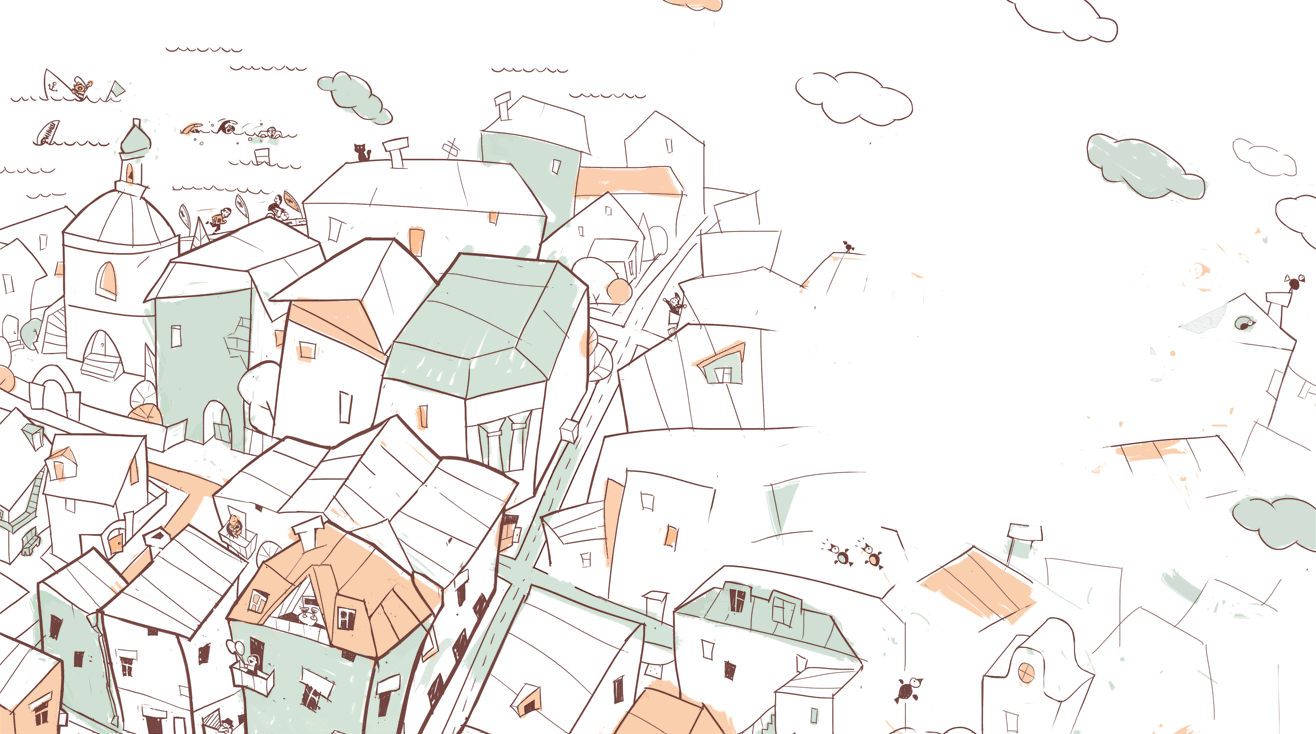
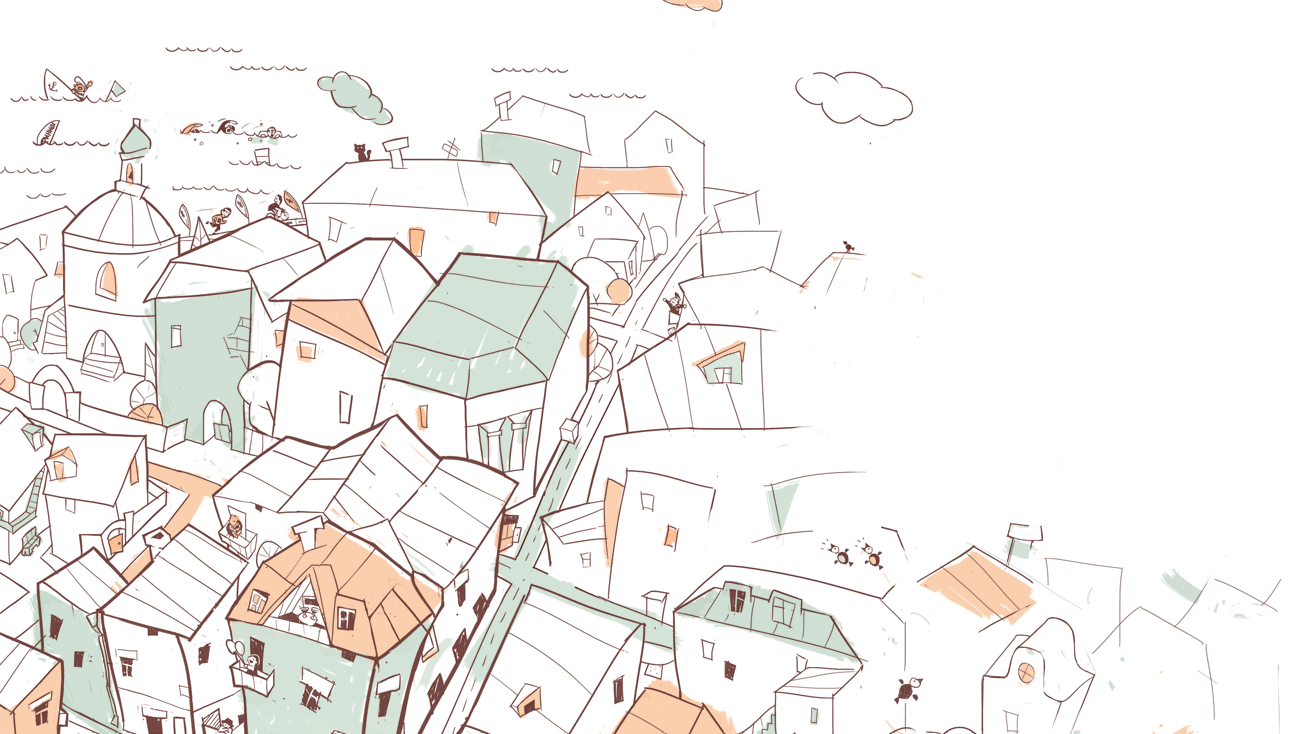
Ready

diff --git a/css/main.css b/css/main.css
@@ -8,26 +8,32 @@ body {
 
 
 .header {
-  background: url(../images/bgs/bg1-min.png) no-repeat;
+  background: url(../images/bgs/bg1-min.png) no-repeat,
+  url(../images/bgs/bg1-min-right.png) no-repeat right;
+  background-size: auto 100%;
 }
 .about {
   background: url(../images/bgs/bg2-min.png) no-repeat;
+  background-size: auto 100%;
 }
 .clients {
-  background: url(../images/bgs/bg3-min.png) no-repeat;
+  background: url(../images/bgs/bg3-min.png) no-repeat, #d0e1dc;
+  background-size: auto 100%;
 }
 .smm {
-  background: url(../images/bgs/bg4-min.png) no-repeat;
+  background: url(../images/bgs/bg4-min.png) no-repeat right;
+  background-size: auto 100%;
 }
 .clothes {
-  background: url(../images/bgs/bg5-min.png) no-repeat;
+  background: url(../images/bgs/bg5-min.png) no-repeat right;
+  background-size: auto 100%;
 }
 .team {
-  background: url(../images/bgs/bg6-min.png) no-repeat;
+  background: url(../images/bgs/bg6-min.png) no-repeat right, #ffd8b3;
+  background-size: auto 100%;
 }
 .section {
-  background-size: 100% 100%;
-  background-position: top right;
+  
 }
 .header--vertical img {
   display: block;
@@ -700,6 +706,9 @@ body {
   line-height: 21.41px;
   text-transform: uppercase;
 }
+.footer__phone_block a {
+  color: #623c39;
+}
 .footer__phone_block b {
   font-family: "A Avante Bs Extra Bold";
   font-weight: 700;
@@ -725,7 +734,14 @@ body {
 }
 
 
-
+@media screen and (min-width: 1500px) {
+  .header--vertical {
+    margin-right: 250px;
+  }
+  .header__menu {
+    margin-right: 150px;
+  }
+}
 @media screen and (max-width: 1300px) {
   .team {
     background: none;
@@ -847,7 +863,7 @@ body {
     height: 100%;
     box-sizing: border-box;
     padding-right: 0;
-    padding: 50px 0 0;
+    padding: 10px 0 0;
     overflow-y: auto;
     justify-content: center;
   }
@@ -859,7 +875,7 @@ body {
     background: none;
   }
   .clients-container {
-    padding: 50px 0;
+    padding: 15px 0;
     justify-content: center;
     width: 100%;
     height: 100%;
@@ -877,7 +893,7 @@ body {
     background-size: auto 100%;
   }
   .wedraw-container {
-    padding: 50px 0;
+    padding: 10px 0;
     overflow-y: auto;
   }
   .smm {
@@ -1009,7 +1025,7 @@ body {
     background-size: auto 100%;
   }
   .clothes-container {
-    padding-top: 200px;
+    padding-top: 100px;
   }
 }
 

diff --git a/index.html b/index.html
@@ -228,12 +228,12 @@
                 <span class="footer--bold">тел.</span>
                 <div class="footer__phone_block">
                   <b>Сергей Сергеев</b> - менеджер<br>
-                  + 7 90 33 440 <b>444</b>
+                  <a href="tel:+ 7 90 33 440 444">+ 7 90 33 440 <b>444</b></a>
                 </div>
                 <div class="footer__phone_divider"></div>
                 <div class="footer__phone_block">
                   <b>Даниил Сергеев</b> - гл. дизайнер<br>
-                  +7 90 50 223 <b>777</b>
+                  <a href="tel:+ 7 90 50 223 777">+7 90 50 223 <b>777</b></a>
                 </div>
               </div>
               <div class="footer__phone">
